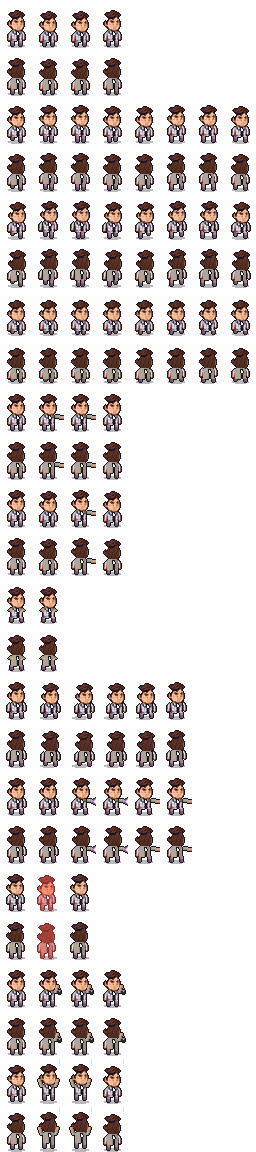
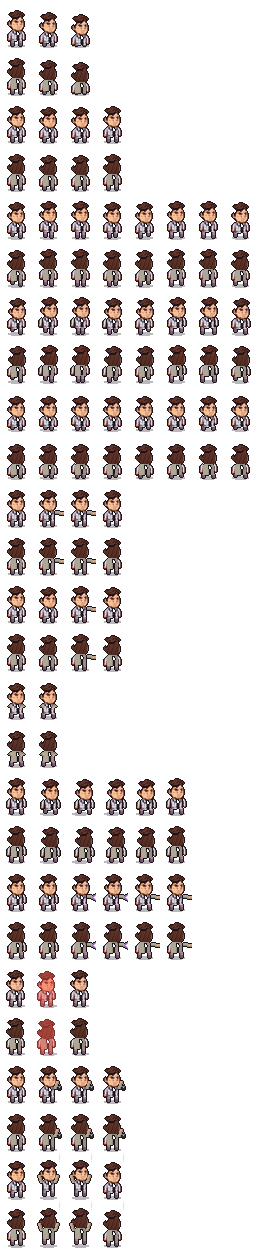
assets: protagonist walk V2 (4 drawn views) in production, seated frames
ch-hero-walk.png = walk-v2 atlas (south/west/east/north x 8, 64x96,
pivot 32,90). ch-hero-sit.png: 4 frames derived from its south frame by
thigh foreshortening (stand -> seated). Canon NPC sheets gain a 3-frame
'sit'. The NPC collective review pack is recorded as rejected in the
manifest (legs missing/detached in most frames).

diff --git a/tools/asset-pipeline/canon_build.py b/tools/asset-pipeline/canon_build.py
@@ -316,6 +316,24 @@ def export():
     for k, (im, pins, src, st) in rooms.items():
         fn = f'assets/production/interiors/{k}.png'; im.save(ROOT / fn, optimize=True); room_meta[k] = {'file': fn, 'w': im.width, 'h': im.height, 'source': src, 'state': st, 'hotspots': pins}
     EX.fog_texture().save(fx / 'fog.png', optimize=True)
+    # protagonist walk V2 (4 real views, 8 frames, 64x96, pivot 32,90) + seated strip derived from its south frame
+    WV2 = Path(r'D:/Projetos/game2-insumos/frequencia-zero-protagonista-walk-v2')
+    wm = json.loads((WV2 / 'manifest.json').read_text(encoding='utf-8'))
+    walk = Image.open(WV2 / 'game' / 'walk_atlas.png').convert('RGBA')
+    rows = {}
+    for fr in wm['frames']: rows[fr['direction']] = fr['atlas_rect'][1] // 96
+    walk.save(chd / 'ch-hero-walk.png', optimize=True)
+    south0 = np.array(walk.crop((0, rows['south'] * 96, 64, rows['south'] * 96 + 96)))
+    HIP = 61; sit_frames = []
+    for cut in (0, 4, 8, 11):
+        f = np.zeros_like(south0)
+        f[HIP + cut:] = south0[HIP + cut:]                       # shins and feet stay on the ground
+        f[cut:HIP + cut] = np.where(south0[:HIP, ..., 3:4] > 0, south0[:HIP], f[cut:HIP + cut])  # upper body lowered
+        sit_frames.append(f)
+    sit = Image.fromarray(np.concatenate(sit_frames, 1).astype(np.uint8), 'RGBA'); sit.save(chd / 'ch-hero-sit.png', optimize=True)
+    hero4 = {'walk': 'assets/production/characters/ch-hero-walk.png', 'sit': 'assets/production/characters/ch-hero-sit.png',
+             'fw': 64, 'fh': 96, 'ax': wm['variants']['game']['pivot'][0], 'ay': wm['variants']['game']['pivot'][1], 'rows': rows,
+             'frames': wm['frames_per_direction'], 'sitFrames': 4, 'source': 'frequencia-zero-protagonista-walk-v2.zip sha256 ' + wm['source_sha256'][:12]}
     crd = PROD / 'creatures'; crd.mkdir(parents=True, exist_ok=True)
     REG['cr-small-0']['im'].save(crd / 'echo.png'); REG['orb']['im'].save(crd / 'pulse.png')
     for key, fn in (('hero', 'hero.png'), ('m-guarda', 'guard.png')):
@@ -350,7 +368,7 @@ def export():
             'sprites': [[table[n]['atlas'], *table[n]['rect'], *REG[n]['anchor']] for n in names],
             'place': place, 'night': night, 'blocked': blocked, 'lights': lights,
             'lake': [[round(a), round(b)] for a, b in (iso(10.5, 8.5), iso(18.5, 8.5), iso(18.5, 18.5), iso(10.5, 18.5))],
-            'chars': chmeta, 'portraits': {'file': 'assets/production/ui/portraits.png', 'w': PW, 'h': PH, 'keys': [k for k, _ in ports]},
+            'chars': chmeta, 'hero4': hero4, 'portraits': {'file': 'assets/production/ui/portraits.png', 'w': PW, 'h': PH, 'keys': [k for k, _ in ports]},
             'icons': {'file': 'assets/production/ui/icons.png', 'size': IW, 'keys': icon_names}, 'logo': 'assets/production/ui/logo.png',
             'rooms': {k: {kk: vv for kk, vv in v.items() if kk != 'hotspots'} for k, v in room_meta.items()},
             'creatures': {k: idx[k] for k in names if k.startswith('cr-')}}
@@ -364,6 +382,8 @@ def export():
                                    'animations': {a: n for a, n in CC.ANIMS}, 'state': 'PRODUCTION'} for k, v in chmeta.items()},
                 'collision': {'units': 'grid cells (3 m); feet plane', 'hero_radius': .22, 'npc_radius': .22, 'shapes': cols,
                               'rules': 'buildings: ground footprint; trees/rocks: trunk circle; props: base circle; canopies and roofs never collide'},
+                'hero_walk_v2': {**hero4, 'state': 'PRODUCTION', 'note': 'walk: 4 drawn views x 8 frames (walk-v2); run/sneak reuse the walk cycle at other speeds; sit: derived from walk-v2 south frame by thigh foreshortening (rows 61-72), 4 frames'},
+                'rejected_packs': {'frequencia-zero-npcs-coletivo-review.zip': 'legs missing or detached from the body in most frames (dark trousers keyed out as background); not promoted'},
                 'interiors': room_meta, 'atlases': files, 'layout': {'placements': len(place), 'blocked': blocked}}
     (man / 'production.json').write_text(json.dumps(manifest, ensure_ascii=False, indent=1), encoding='utf-8')
     html = (ROOT / 'index.html').read_text(encoding='utf-8')

diff --git a/tools/asset-pipeline/canon_chars.py b/tools/asset-pipeline/canon_chars.py
@@ -290,11 +290,13 @@ def poses(anim, n):
             out.append(dict(feet=[(-1, 0), (1, 0)], arms=[C(), (0, 0, 'fwd') if i >= 2 else C(1, -1)], glow=i in (2, 3), lean=1 if i in (2, 3) else 0))
         elif anim == 'hurt':
             out.append(dict(shift=[-1, -2, -1][i], feet=[(0, 0), (0, 0)], arms=[C(0, -1), C(0, -1)], flash=i == 1, head_dy=1 if i == 1 else 0))
+        elif anim == 'sit':  # stand -> half -> seated (body lowers onto the seat, shins stay)
+            out.append(dict(crouch=[0, 2, 4][i], feet=[(0, 0), (0, 0)], arms=[C(0, 0), C(0, 0)]))
         elif anim == 'react':
             out.append(dict(bob=[-1, -2, -2, 0][i], feet=[(0, [1, 2, 2, 0][i]), (0, [1, 2, 2, 0][i])], arms=[(0, 0, 'up'), (0, 0, 'up')] if i in (1, 2) else [C(), C()], mark=i in (1, 2, 3)))
     return out
 
-ANIMS = [('idle', 4), ('walk', 8), ('run', 8), ('sneak', 8), ('interact', 4), ('talk', 4), ('defend', 2), ('dodge', 6),
+ANIMS = [('sit', 3), ('idle', 4), ('walk', 8), ('run', 8), ('sneak', 8), ('interact', 4), ('talk', 4), ('defend', 2), ('dodge', 6),
          ('attack', 6), ('hurt', 3), ('use', 4), ('react', 4)]
 
 def sheet(key):
